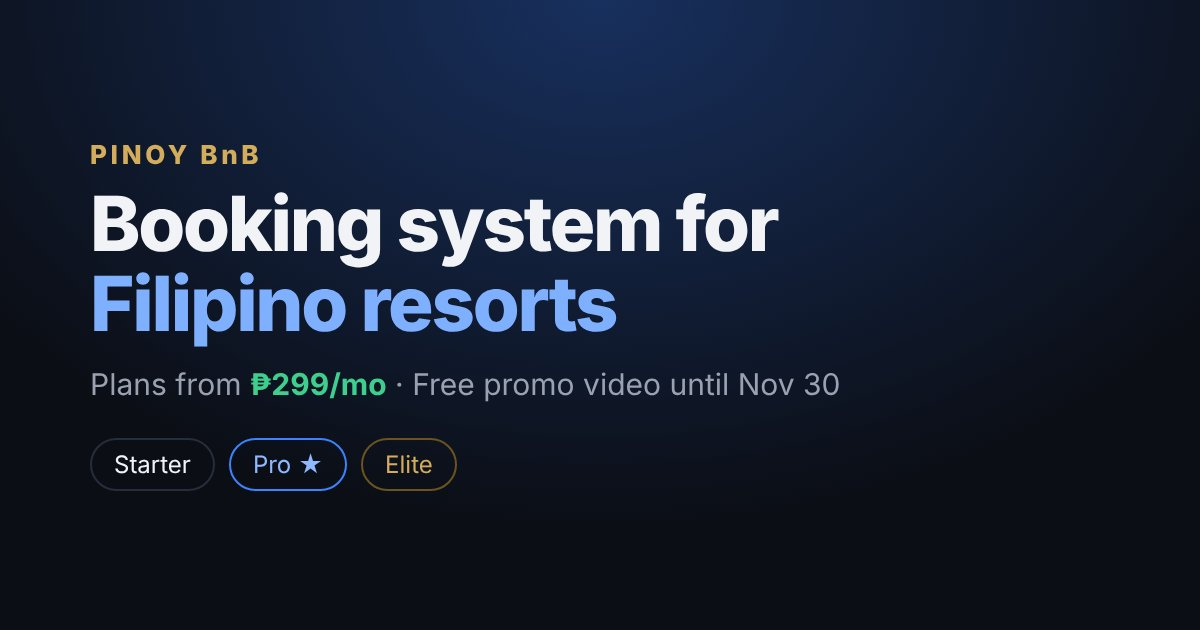
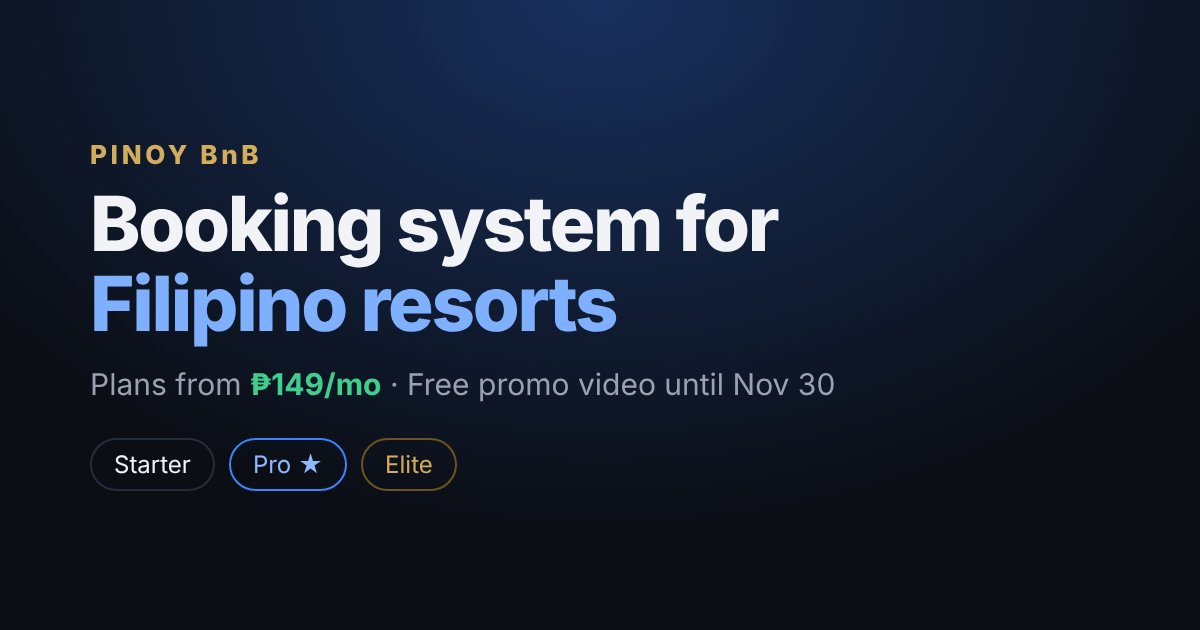
Pinoy BnB: intro prices 149 Starter, 249 Pro
Claude-Session: https://claude.ai/code/session_01EhrWQxsNGH5dANLoTiUgVV

Changed region(s): [[0.2158, 0.573, 0.7092, 0.6333]]

diff --git a/pinoy-bnb/index.html b/pinoy-bnb/index.html
@@ -3,10 +3,10 @@
 <head>
 <meta charset="utf-8">
 <meta name="viewport" content="width=device-width,initial-scale=1">
-<meta name="description" content="Booking system for Filipino resorts. Calendars, staff app and promo materials in one app. Plans from ₱299/mo, free promo video until Nov 30.">
+<meta name="description" content="Booking system for Filipino resorts. Calendars, staff app and promo materials in one app. Plans from ₱149/mo, free promo video until Nov 30.">
 <meta property="og:type" content="website">
 <meta property="og:title" content="Pinoy BnB Plans · Booking system for resorts">
-<meta property="og:description" content="Calendars, staff app and promo materials in one app. Plans from ₱299/mo. Free promo video until Nov 30.">
+<meta property="og:description" content="Calendars, staff app and promo materials in one app. Plans from ₱149/mo. Free promo video until Nov 30.">
 <meta property="og:url" content="https://kyriljamie.github.io/cbtg-guide/pinoy-bnb/">
 <meta property="og:image" content="https://kyriljamie.github.io/cbtg-guide/pinoy-bnb/og.jpg">
 <meta property="og:image:width" content="1200"><meta property="og:image:height" content="630">
@@ -275,7 +275,7 @@ footer{padding:30px 0 50px;text-align:center;color:var(--dim);font-size:12px;lin
   <section class="blk">
     <h3>Questions</h3>
     <div class="faq">
-      <details><summary>What happens after the first 3 months?</summary><p>Your plan moves to the regular monthly price shown under it. Before that, we send you a report of the bookings you handled and the time you saved, so you can decide.</p></details>
+      <details><summary>What happens after the first 3 months?</summary><p>Your plan moves to its regular monthly price (Starter ₱599, Pro ₱1,499), and you can upgrade to a higher plan anytime. Before the 3 months end, we send you a report of the bookings you handled and the time you saved, so you can decide.</p></details>
       <details><summary>Can I change plans later?</summary><p>Yes. Upgrade or downgrade anytime, and your bookings and settings carry over.</p></details>
       <details><summary>Do my staff need their own phones?</summary><p>The staff app runs on any Android or iPhone. Several staff members can share one login per resort if you prefer.</p></details>
       <details><summary>How do I pay?</summary><p>GCash, Maya or bank transfer. Annual plans are paid once a year.</p></details>
@@ -369,13 +369,13 @@ const S = {
 
 /* ---------- plans ---------- */
 const PLANS = [
-  {id:"starter",name:"Starter",tag:"Up to 3 units",intro:299,reg:599,annual:5990,
+  {id:"starter",name:"Starter",tag:"Up to 3 units",intro:149,reg:599,annual:5990,
    head:"Everything you need to stop tracking bookings by hand",
    f:[["calendar","Booking calendar","See every unit's booked and free dates at a glance"],
       ["bookings","Upcoming bookings","Guests, pax and payment status in one list"],
       ["avail","Availability check","Answer \"available pa po?\" in seconds"],
       ["confirm","Guest confirmation messages","Ready-to-send confirmations for Messenger"]]},
-  {id:"pro",name:"Pro",tag:"Up to 10 units",intro:499,reg:1499,annual:14990,rec:true,
+  {id:"pro",name:"Pro",tag:"Up to 10 units",intro:249,reg:1499,annual:14990,rec:true,
    head:"Everything in Starter, plus staff tools and marketing",
    f:[["staff","Staff app","Daily cleaning tasks your staff tick off on their phones"],
       ["ocular","Ocular visit checklist","Photo inspections before every check-in"],
@@ -399,7 +399,7 @@ function priceHTML(p){
     return `<div class="price">${p.start?'<span class="from">Starting at</span>':""}<span class="amt">${peso(p.annual)}</span><span class="per">/yr</span></div><div class="after">About ${peso(eq)}/mo · 2 months free</div>`;
   }
   if(p.start) return `<div class="price"><span class="from">Starting at</span><span class="amt">${peso(p.intro)}</span><span class="per">/mo</span></div><div class="after">Custom quote for multiple properties</div>`;
-  return `<div class="price"><span class="amt">${peso(p.intro)}</span><span class="per">/mo</span><s>${peso(p.reg)}</s></div><div class="after">for 3 months, ${peso(p.reg)}/mo after</div>`;
+  return `<div class="price"><span class="amt">${peso(p.intro)}</span><span class="per">/mo</span><s>${peso(p.reg)}</s></div><div class="after">for 3 months, then ${peso(p.reg)}/mo · upgrade anytime</div>`;
 }
 function render(){
   document.getElementById("plans").innerHTML=PLANS.map(p=>`
